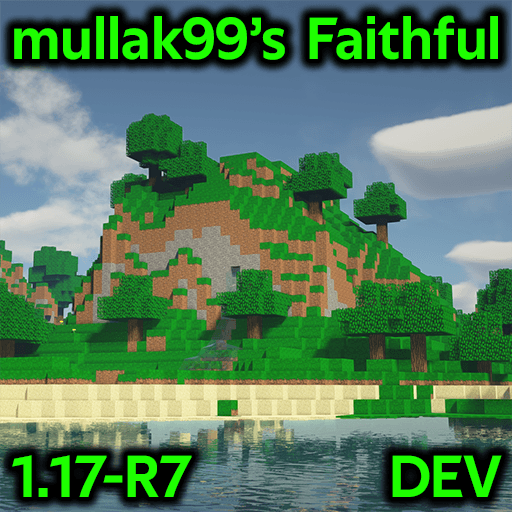
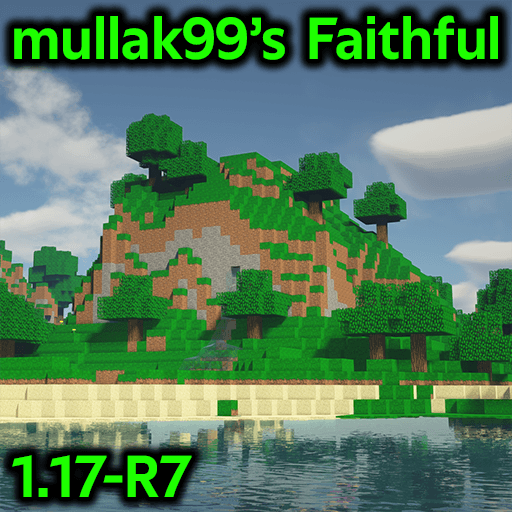
MC1.17-R7

Changed region(s): [[0.7188, 0.8438, 1.0, 1.0]]

diff --git a/ChangeLog.md b/ChangeLog.md
@@ -1,7 +1,7 @@
 # Changelog
 All notable changes to mullak99's Faithful will be documented in this file.
 
-## [MC1.17-R7] - TBC
+## [MC1.17-R7] - 2021-12-18
 ### Changed
 - Replaced placeholder Zombie Villager types
 - Replaced all book textures

diff --git a/README.md b/README.md
@@ -1,6 +1,6 @@
 # mullak99's Faithful 32x
 
-**Current Branch Version:** _MC1.17-R7_DEV211217-1_  
+**Current Branch Version:** _MC1.17-R7_  
 
 ## Official Links
 
